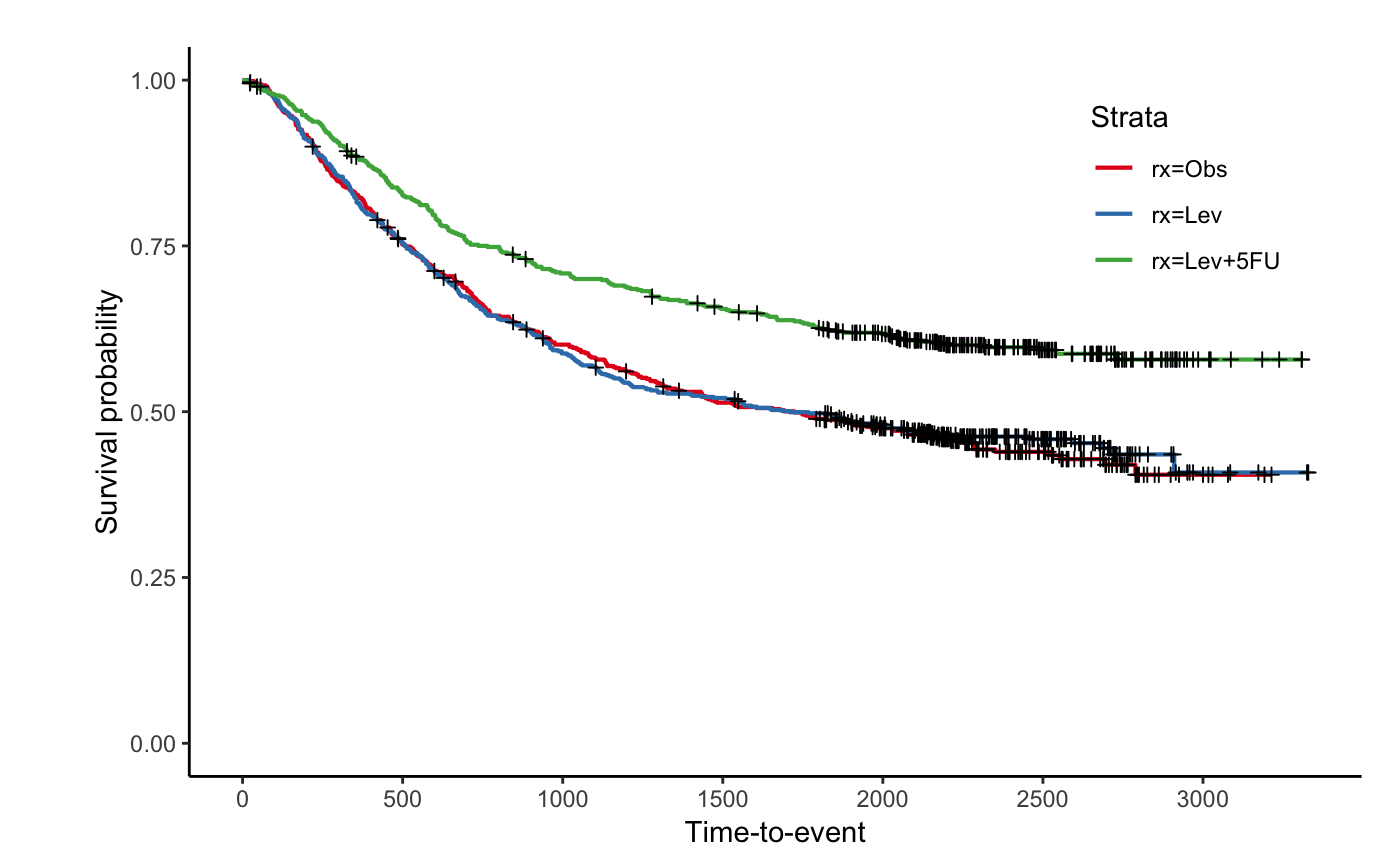
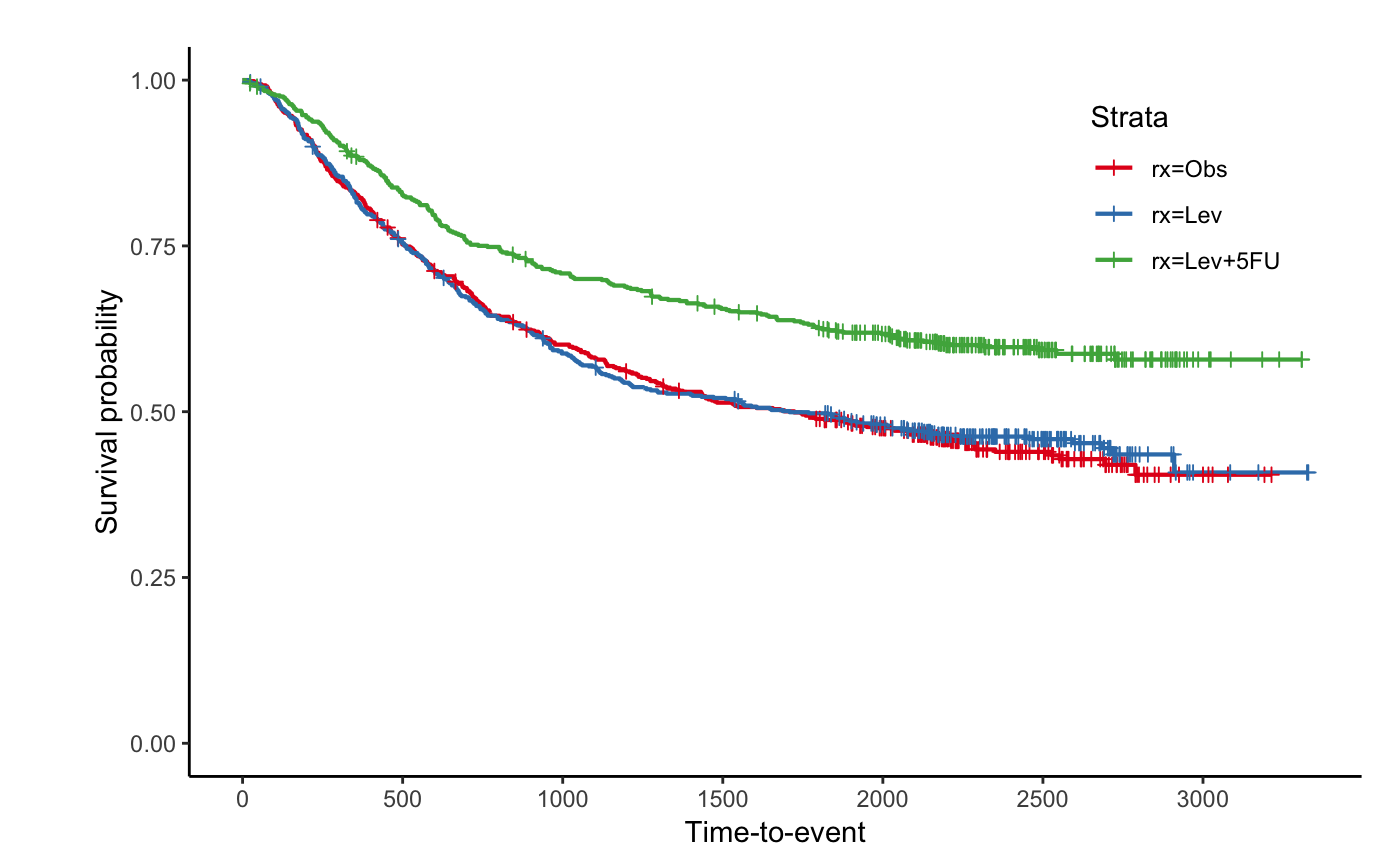
Built site for jskm: 0.5.4@

diff --git a/reference/svyjskm.html b/reference/svyjskm.html
@@ -136,6 +136,8 @@
   <span class='kw'>pval.size</span> <span class='kw'>=</span> <span class='fl'>5</span>,
   <span class='kw'>pval.coord</span> <span class='kw'>=</span> <span class='fu'><a href='https://rdrr.io/r/base/c.html'>c</a></span>(<span class='kw'>NULL</span>, <span class='kw'>NULL</span>),
   <span class='kw'>pval.testname</span> <span class='kw'>=</span> <span class='no'>F</span>,
+  <span class='kw'>marks</span> <span class='kw'>=</span> <span class='fl'>TRUE</span>,
+  <span class='kw'>shape</span> <span class='kw'>=</span> <span class='fl'>3</span>,
   <span class='kw'>legend</span> <span class='kw'>=</span> <span class='fl'>TRUE</span>,
   <span class='kw'>legendposition</span> <span class='kw'>=</span> <span class='fu'><a href='https://rdrr.io/r/base/c.html'>c</a></span>(<span class='fl'>0.85</span>, <span class='fl'>0.8</span>),
   <span class='kw'>ci</span> <span class='kw'>=</span> <span class='kw'>NULL</span>,
@@ -233,7 +235,7 @@
     </tr>
     <tr>
       <th>linecols</th>
-      <td><p>Character. Colour brewer pallettes too colour lines. Default: 'Set1', "black" for black with dashed line.</p></td>
+      <td><p>Character or Character vector. Colour brewer pallettes too colour lines. Default ="Set1", "black" for black with dashed line, character vector for the customization of line colors.</p></td>
     </tr>
     <tr>
       <th>dashed</th>

diff --git a/news/index.html b/news/index.html
@@ -113,6 +113,15 @@
       <small>Source: <a href='https://github.com/jinseob2kim/jskm/blob/master/NEWS.md'><code>NEWS.md</code></a></small>
     </div>
 
+    <div id="jskm-055" class="section level1">
+<h1 class="page-header">
+<a href="#jskm-055" class="anchor"></a>jskm 0.5.5<small> Unreleased </small>
+</h1>
+<ul>
+<li>Update: Align color of censoring marks with color of lines in
+<code>jskm</code>.</li>
+</ul>
+</div>
     <div id="jskm-054" class="section level1">
 <h1 class="page-header">
 <a href="#jskm-054" class="anchor"></a>jskm 0.5.4<small> Unreleased </small>
@@ -425,6 +434,7 @@ option in <code>svyjskm</code></p></li>
     <div id="tocnav">
       <h2>Contents</h2>
       <ul class="nav nav-pills nav-stacked">
+        <li><a href="#jskm-055">0.5.5</a></li>
         <li><a href="#jskm-054">0.5.4</a></li>
         <li><a href="#jskm-053">0.5.3</a></li>
         <li><a href="#jskm-052">0.5.2</a></li>

diff --git a/articles/jskm.html b/articles/jskm.html
@@ -70,13 +70,13 @@
 
       
 
-      </header><script src="jskm_files/header-attrs-2.26/header-attrs.js"></script><div class="row">
+      </header><script src="jskm_files/header-attrs-2.27/header-attrs.js"></script><div class="row">
   <div class="col-md-9 contents">
     <div class="page-header toc-ignore">
       <h1>jskm</h1>
                         <h4 class="author">Jinseob Kim</h4>
             
-            <h4 class="date">2024-04-16</h4>
+            <h4 class="date">2024-07-08</h4>
       
       <small class="dont-index">Source: <a href="https://github.com/jinseob2kim/jskm/blob/master/vignettes/jskm.Rmd"><code>vignettes/jskm.Rmd</code></a></small>
       <div class="hidden name"><code>jskm.Rmd</code></div>

diff --git a/articles/jskm_files/header-attrs-2.27/header-attrs.js b/articles/jskm_files/header-attrs-2.27/header-attrs.js
@@ -1,0 +1,12 @@
+// Pandoc 2.9 adds attributes on both header and div. We remove the former (to
+// be compatible with the behavior of Pandoc < 2.8).
+document.addEventListener('DOMContentLoaded', function(e) {
+  var hs = document.querySelectorAll("div.section[class*='level'] > :first-child");
+  var i, h, a;
+  for (i = 0; i < hs.length; i++) {
+    h = hs[i];
+    if (!/^h[1-6]$/i.test(h.tagName)) continue;  // it should be a header h1-h6
+    a = h.attributes;
+    while (a.length > 0) h.removeAttribute(a[0].name);
+  }
+});

diff --git a/reference/jskm.html b/reference/jskm.html
@@ -258,7 +258,7 @@
     </tr>
     <tr>
       <th>linecols</th>
-      <td><p>Character. Colour brewer pallettes too colour lines. Default ="Set1", "black" for black with dashed line.</p></td>
+      <td><p>Character or Character vector. Colour brewer pallettes too colour lines. Default ="Set1", "black" for black with dashed line, character vector for the customization of line colors.</p></td>
     </tr>
     <tr>
       <th>dashed</th>
